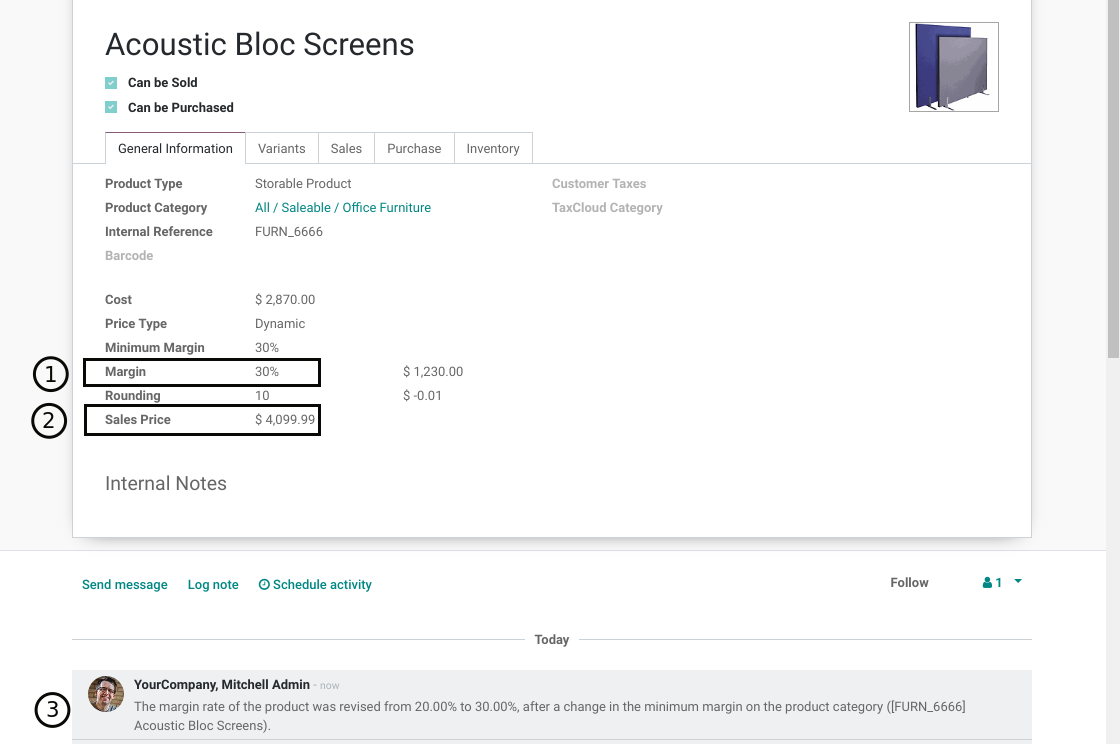
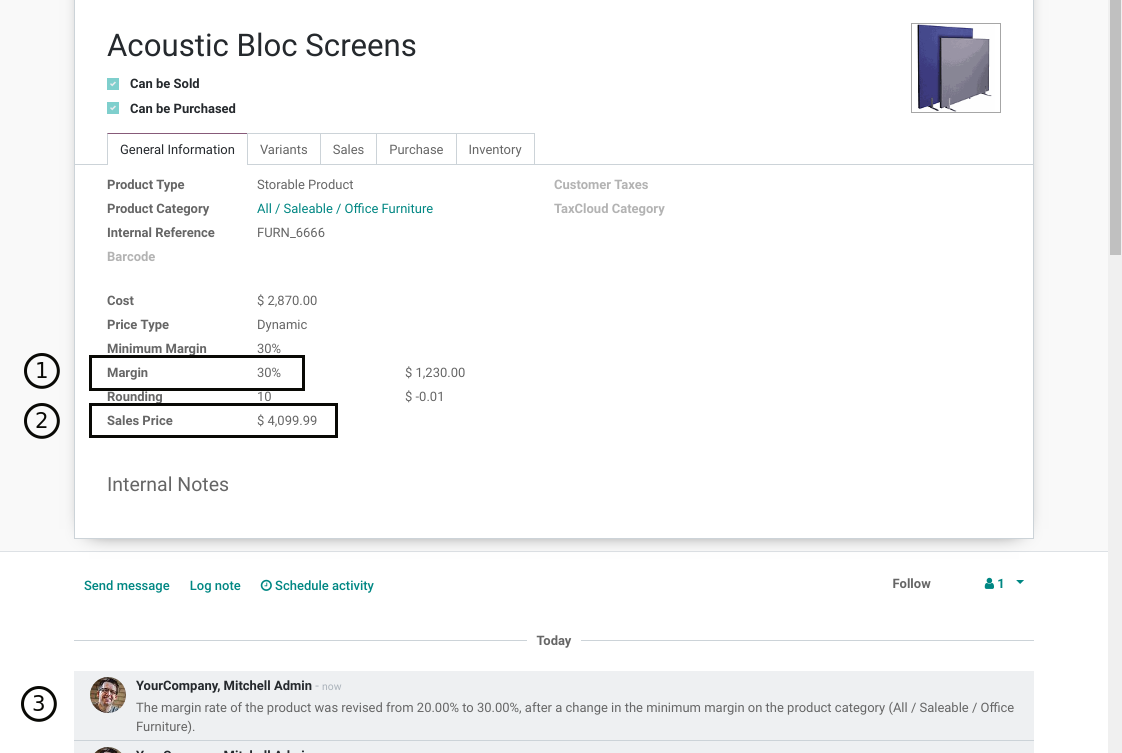
Fix mail thread message and import error

diff --git a/sale_minimum_margin/margin_update_from_category.py b/sale_minimum_margin/margin_update_from_category.py
@@ -19,7 +19,7 @@ class Product(models.Model):
         ).format(
             rate_before=rate_before * 100,
             rate_after=self.margin * 100,
-            category=self.display_name,
+            category=self.categ_id.display_name,
         )
         self.message_post(body=message)
 

diff --git a/sale_minimum_margin/minimum_margin_constraint.py b/sale_minimum_margin/minimum_margin_constraint.py
@@ -3,6 +3,7 @@
 
 from odoo import api, models, _
 from odoo.exceptions import ValidationError
+from odoo.tools import float_compare
 
 
 def _get_minimum_margin_error_title(context: dict):
